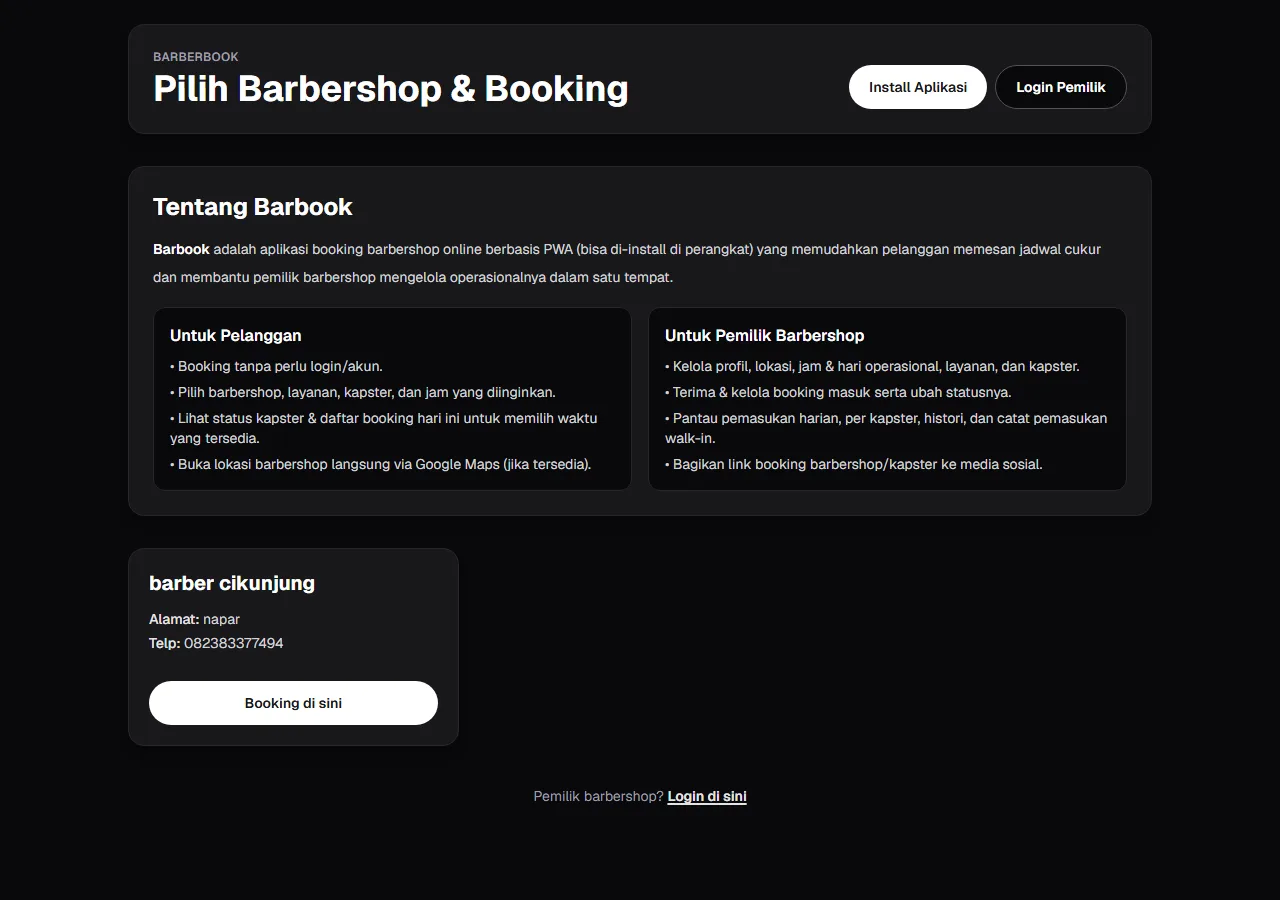
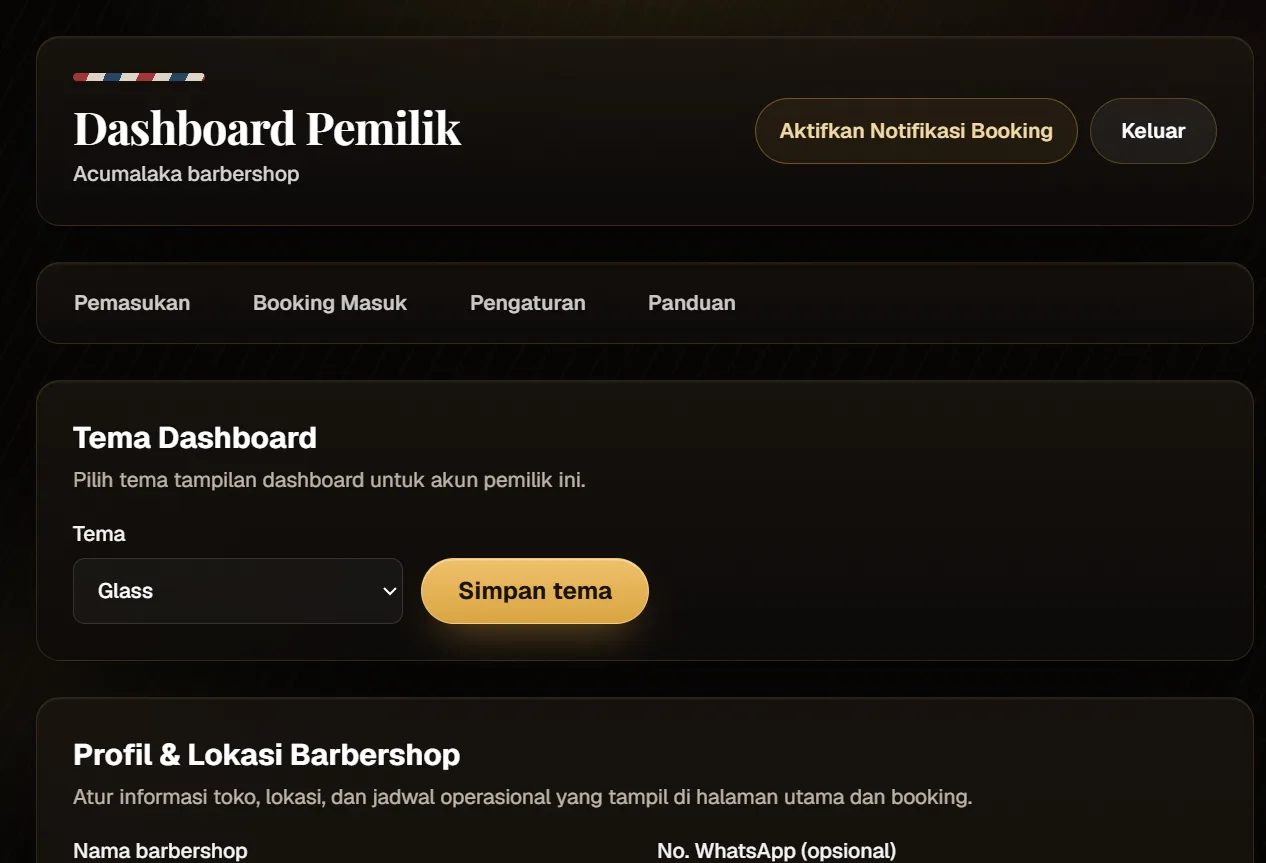
assets(barbook): replace thumbnail with logged-in dashboard screenshot

diff --git a/src/lib/content.ts b/src/lib/content.ts
@@ -244,7 +244,7 @@ const en: Content = {
         meta: { role: "Full Stack Developer", status: "Live" },
         tags: ["Next.js", "PWA", "Supabase"],
         link: "https://barbook.web.id",
-        image: { src: "/img/projects/barbook.webp", width: 1280, height: 900 },
+        image: { src: "/img/projects/barbook.webp", width: 1266, height: 863 },
       },
       {
         title: "Zykk Store",
@@ -572,7 +572,7 @@ const id: Content = {
         meta: { role: "Full Stack Developer", status: "Aktif" },
         tags: ["Next.js", "PWA", "Supabase"],
         link: "https://barbook.web.id",
-        image: { src: "/img/projects/barbook.webp", width: 1280, height: 900 },
+        image: { src: "/img/projects/barbook.webp", width: 1266, height: 863 },
       },
       {
         title: "Zykk Store",
